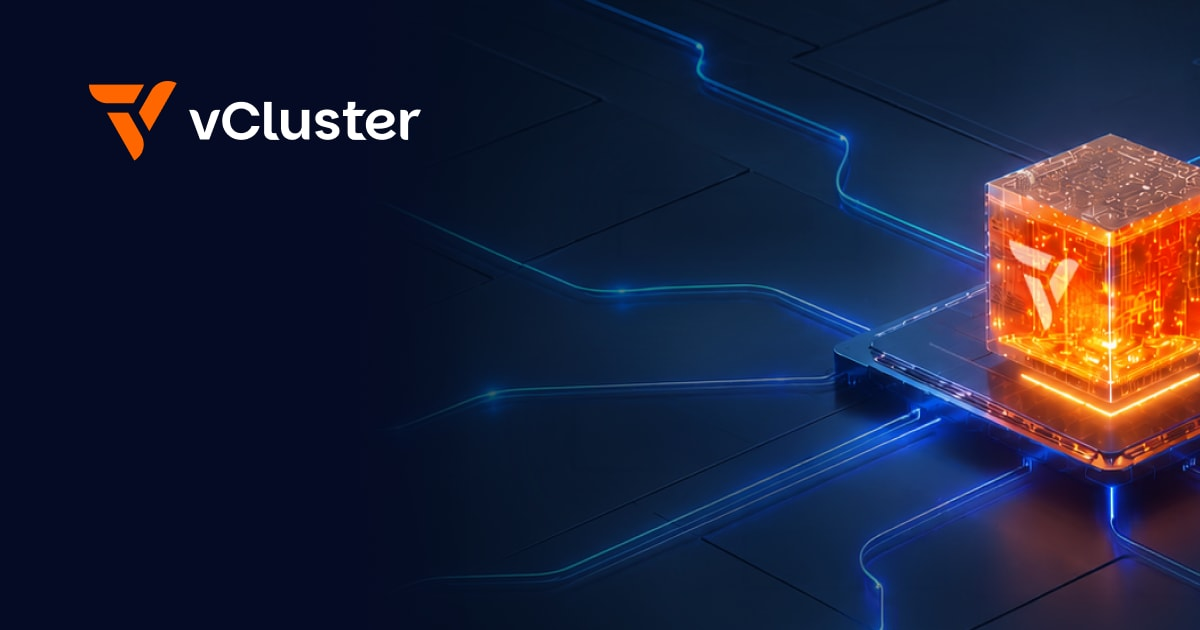
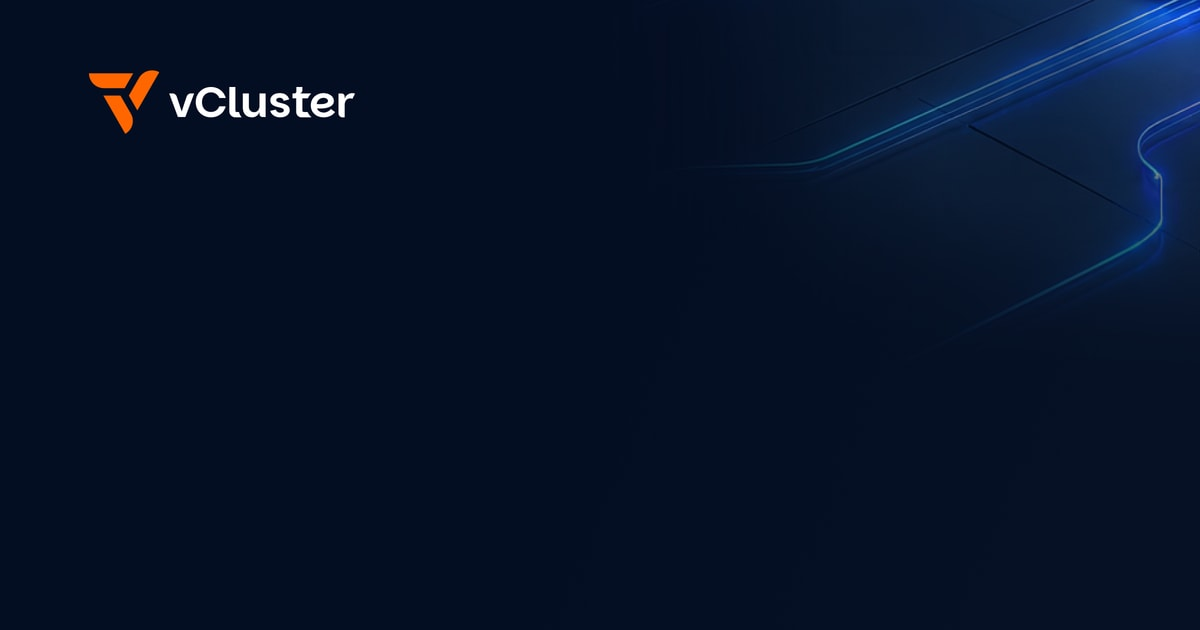
feat(seo): switch share cards to Design's revised background
Design revised the background after seeing how long titles wrapped
against the first version's artwork. The new one leaves most of the
card open, so the title column widens from 700 to 960 px and a
90-character title fits in three lines.

Refs DOC-1965

diff --git a/plugins/og-title-cards/index.js b/plugins/og-title-cards/index.js
@@ -49,10 +49,11 @@ async function loadAssets() {
 
 const el = (type, style, children, props = {}) => ({ type, props: { style, children, ...props } });
 
-// Layout follows Design's docs share card (2026-11-12): a full-bleed
+// Layout follows Design's docs share card (2026-11-17): a full-bleed
 // background with the vCluster logo built in, the product as an orange
-// eyebrow, and the page title below it. The text column stops short of the
-// artwork on the right, so long titles wrap instead of covering it.
+// eyebrow, and the page title below it. The background is a 2x export
+// flattened onto #050B24 and scaled to 1200x630. Its open area is wide
+// enough that a 90-character title fits in three lines.
 function card({ eyebrow, title }, assets) {
   return el('div', {
     width: WIDTH, height: HEIGHT, display: 'flex', position: 'relative',
@@ -61,7 +62,7 @@ function card({ eyebrow, title }, assets) {
     el('img', { position: 'absolute', left: 0, top: 0, width: WIDTH, height: HEIGHT }, undefined,
       { src: assets.background, width: WIDTH, height: HEIGHT }),
     el('div', {
-      position: 'absolute', left: 92, top: 228, width: 700,
+      position: 'absolute', left: 92, top: 228, width: 960,
       display: 'flex', flexDirection: 'column',
     }, [
       el('div', { color: '#FF6600', fontSize: 28, fontWeight: 500 }, eyebrow),
@@ -158,8 +159,8 @@ module.exports = function ogTitleCards(context, options = {}) {
           rendered.set(key, (async () => {
             const svg = await satori(card(info, assets), { width: WIDTH, height: HEIGHT, fonts: assets.fonts });
             const png = new Resvg(svg, { fitTo: { mode: 'width', value: WIDTH } }).render().asPng();
-            // The photographic background makes PNG cards about 740 KB each.
-            // JPEG keeps them near 150 KB with no visible difference.
+            // The background's gradient and glow make PNG cards 170-300 KB.
+            // JPEG keeps them at 20-45 KB with no visible difference.
             const jpeg = await sharp(png).jpeg({ quality: 80, mozjpeg: true }).toBuffer();
             await fs.writeFile(path.join(outDir, outSubdir, `${key}.jpg`), jpeg);
           })());
